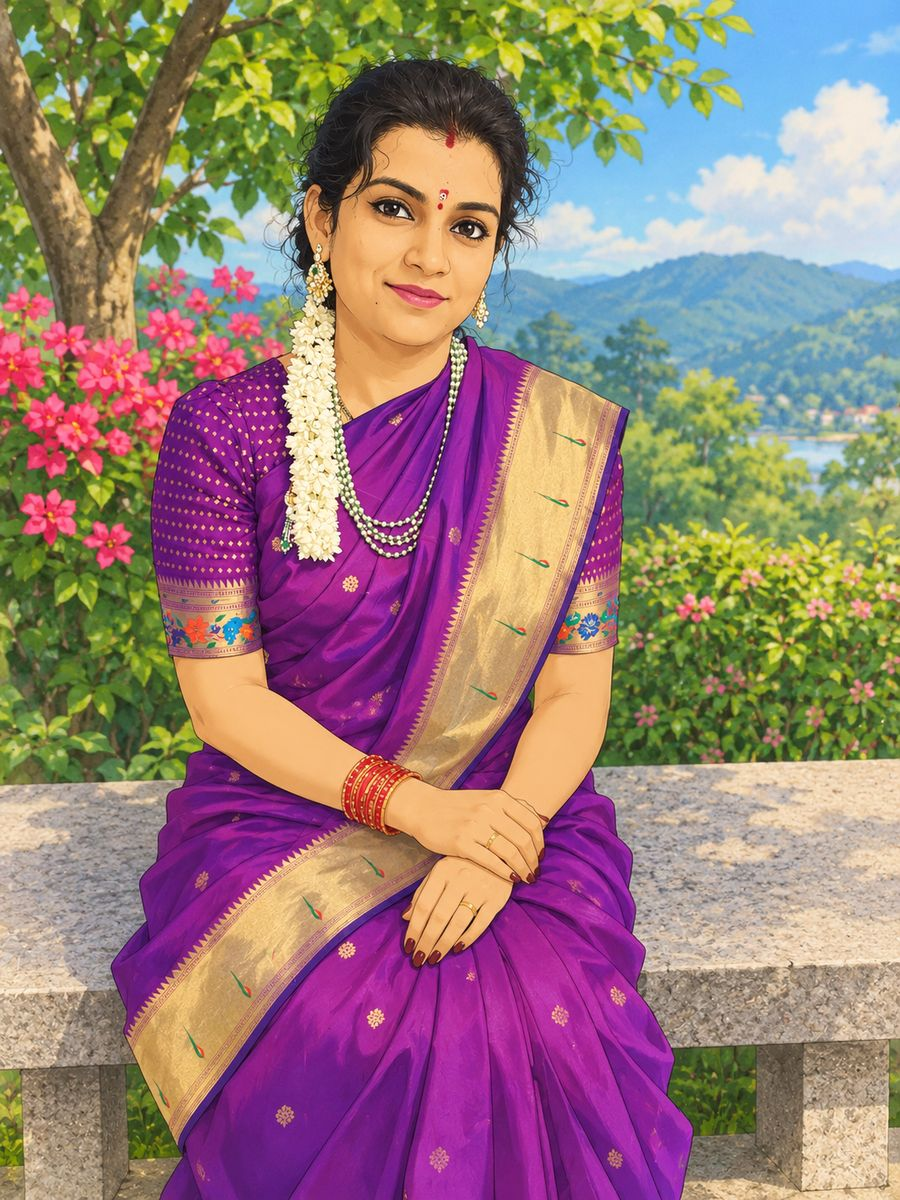
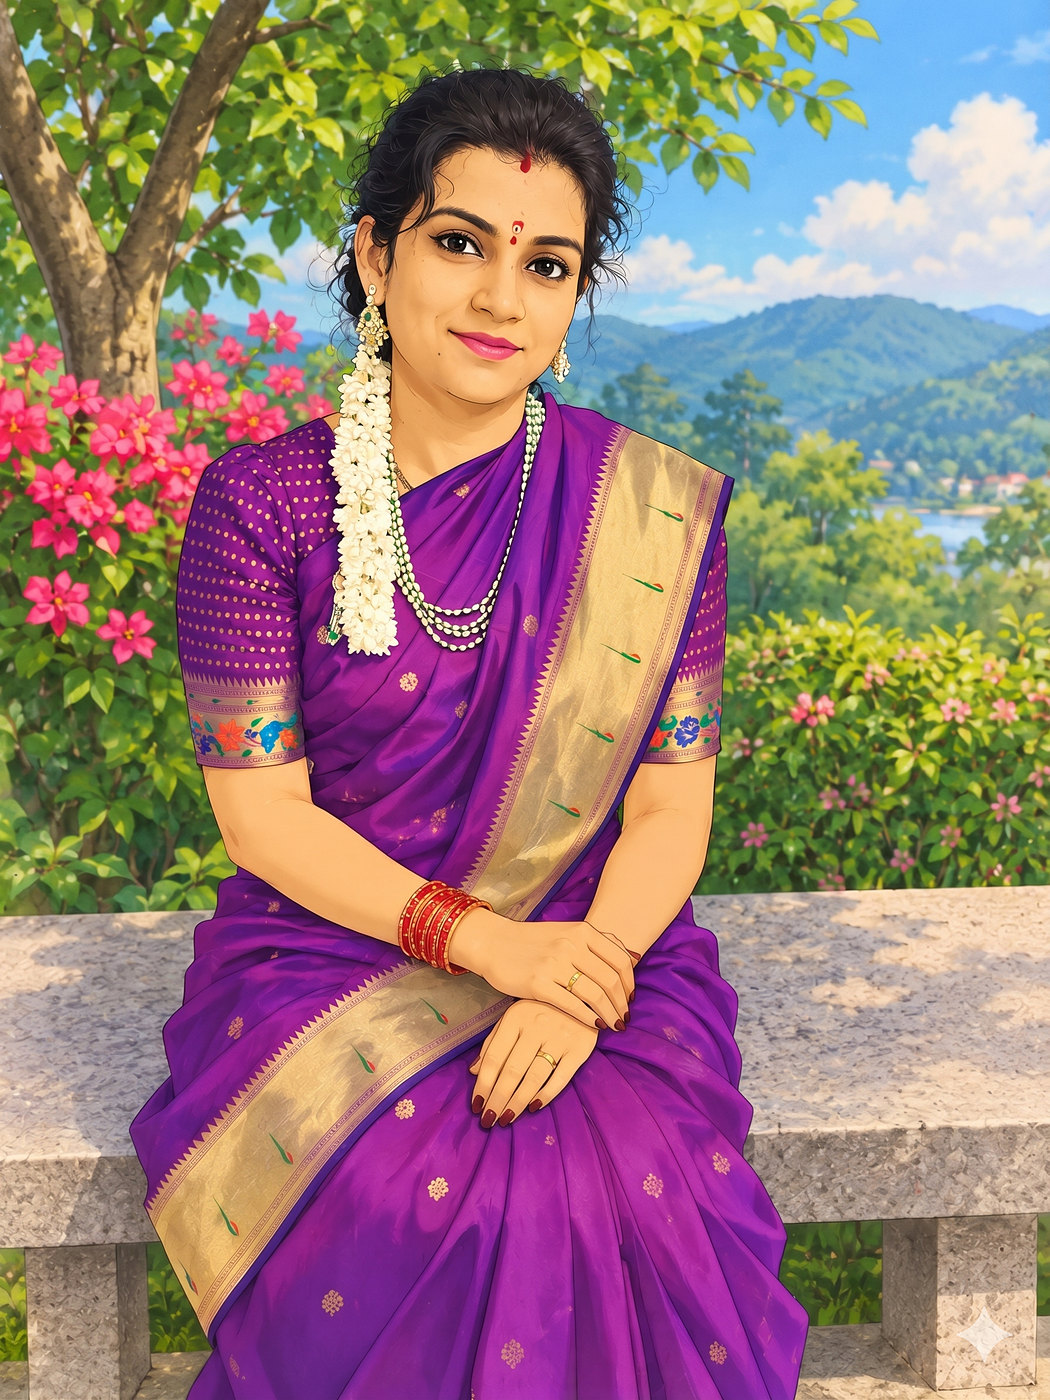
Story frame: new high-quality photos (city, garden, village), lighter copies for phones
Claude-Session: https://claude.ai/code/session_01RzyaSMPHyd2ic61qxE1WKS

diff --git a/index.html b/index.html
@@ -311,9 +311,9 @@ footer .wrap{padding-top:18px;padding-bottom:calc(18px + env(safe-area-inset-bot
     </div>
 <div class="story-in" id="our-story">
     <div class="story-fig" id="storyFig"><div class="slides">
-      <img class="on" src="img/story/young.jpg" alt="Illustration of a smiling young woman in a white top, relaxing in a carved armchair beside a garden window" width="900" height="1200" fetchpriority="high">
-      <img src="img/story/graceful.jpg" alt="Illustration of a woman in a purple silk saree with a gold border and jasmine in her hair, seated in a garden" width="900" height="1200" decoding="async">
-      <img src="img/story/timeless.jpg" alt="Illustration of a smiling older woman in a mustard silk saree with a maroon blouse, seated beside a brass lamp" width="900" height="1200" decoding="async">
+      <img class="on" src="img/story/young.jpg" srcset="img/story/young-s.jpg 600w, img/story/young.jpg 1050w" sizes="(min-width:860px) 440px, 270px" alt="Illustration of a smiling young woman in a white top, relaxing in a carved armchair by a city-view window" width="1050" height="1400" fetchpriority="high">
+      <img src="img/story/graceful.jpg" srcset="img/story/graceful-s.jpg 600w, img/story/graceful.jpg 1050w" sizes="(min-width:860px) 440px, 270px" alt="Illustration of a woman in a purple silk saree with a gold border and jasmine in her hair, seated in a garden" width="1050" height="1400" decoding="async">
+      <img src="img/story/timeless.jpg" srcset="img/story/timeless-s.jpg 600w, img/story/timeless.jpg 1050w" sizes="(min-width:860px) 440px, 270px" alt="Illustration of a smiling older woman in a mustard silk saree with a maroon blouse, seated beside a brass lamp with a village lane behind her" width="1050" height="1400" decoding="async">
     </div></div>
     <div class="story-txt">
       <p class="s-eyebrow gold" id="storyTitle">Our story</p>
